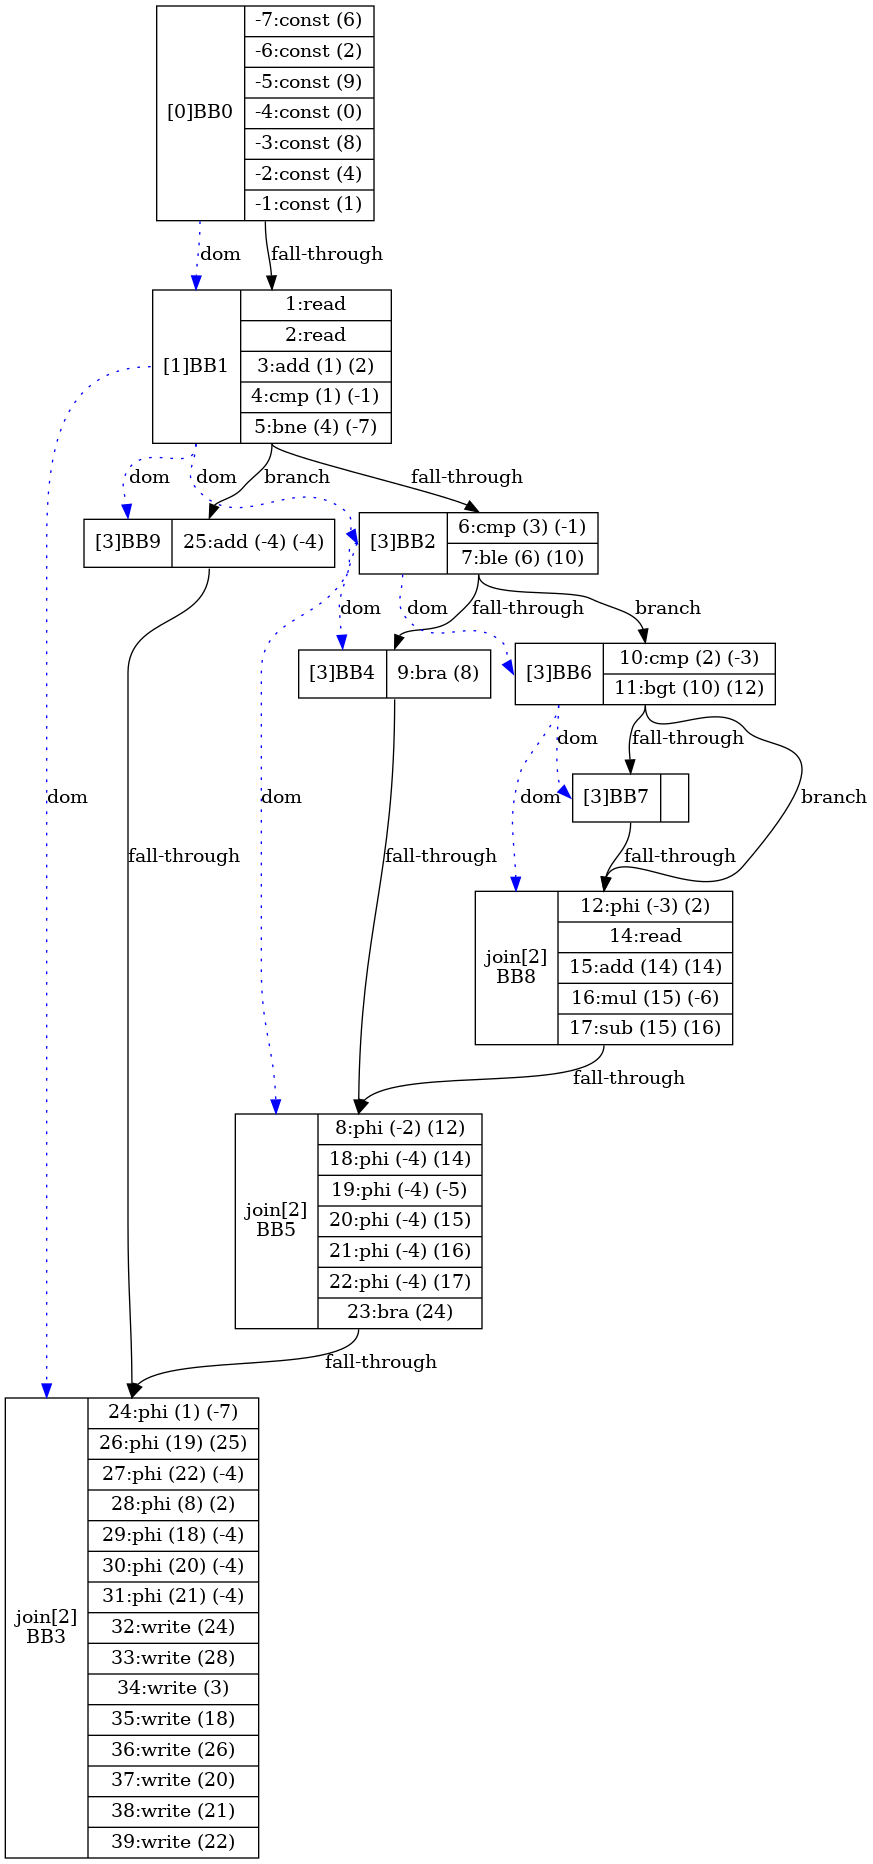
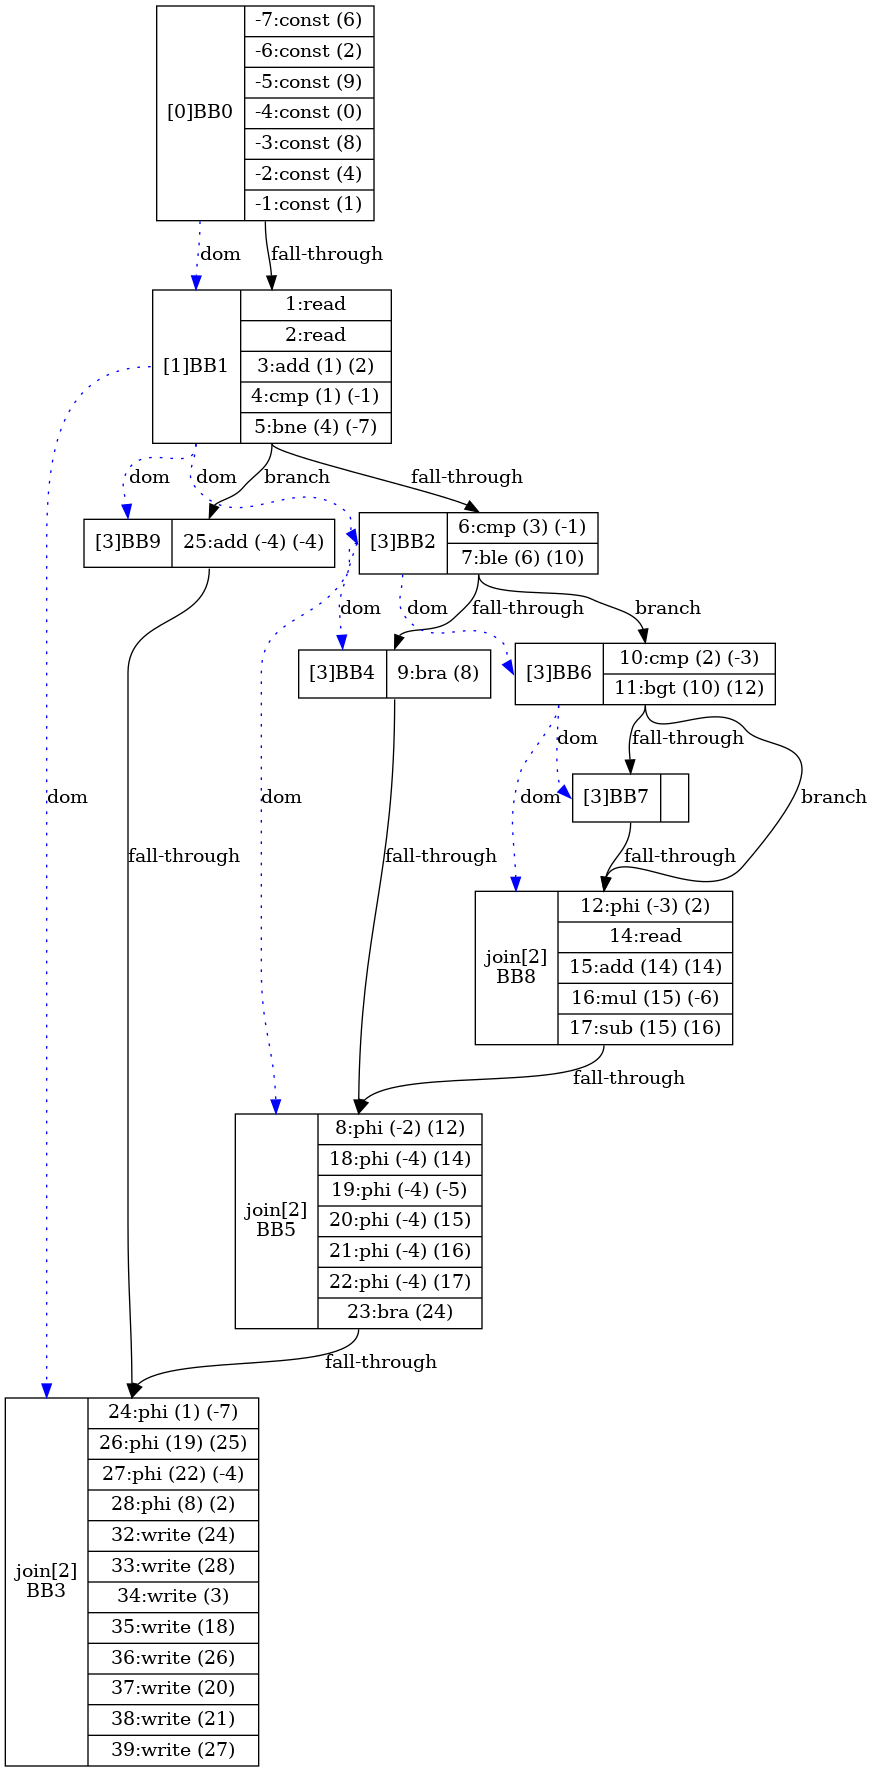
updated [Parser - cleanPhiDupes()]; resolved - remove phi's from [BB's newInstr (dot)]; todo - NESTING; todo - funcCalls; todo - valgrind

diff --git a/src/Parser.hpp b/src/Parser.hpp
@@ -800,18 +800,23 @@ public:
                         if (curr->findSSA(prevVal)) {
                             if (!phiHardUpdate) {
                                 curr->updateInstructions(oldVal, BasicBlock::ssa_table.at(ident_val));
+                                // [12.26.2024]: this hsould be the end of [propagateDown()] for this branch right?
+                                // - since prevVal was created in [this->currBB], we can assume future BB's that're DOM by this->currBB will either use that val or update it
+                                #ifdef DEBUG
+                                    std::cout << "prevVal was created in [curr]; looks like: " << std::endl << curr->toString() << std::endl;
+                                #endif
+                                return; // stub
                             } else {
                                 curr->updateInstructions(prevVal, BasicBlock::ssa_table.at(ident_val), phiHardUpdate);
                                 curr->varVals.insert_or_assign(ident, ident_val);
                                 oldVal = prevVal;
-                                // curr->removeSSA(prevVal); // [1.5.2025]: SLDKFJSL:DKFJSD WHY???
+                                curr->removeSSA(prevVal); // [1.5.2025]: SLDKFJSL:DKFJSD WHY???
+                                #ifdef DEBUG
+                                    std::cout << "prevVal was created in [curr]; looks like: [" << prevVal->toString() << "]" << std::endl << curr->toString() << std::endl;
+                                #endif
+                                // - TODO: RESUME HERE
                             }
-                            // [12.26.2024]: this hsould be the end of [propagateDown()] for this branch right?
-                            // - since prevVal was created in [this->currBB], we can assume future BB's that're DOM by this->currBB will either use that val or update it
-                            #ifdef DEBUG
-                                std::cout << "prevVal was created in [curr]; looks like: " << std::endl << curr->toString() << std::endl;
-                            #endif
-                            return; // stub
+                            
                         }
                     }
                 }
@@ -847,10 +852,10 @@ public:
         }
 
         if ((curr->child) && (std::find(seen.begin(), seen.end(), curr->child) == seen.end())) {
-            propagateDown(curr->child, ident, oldVal, ident_val, false, seen, updateIf);
+            propagateDown(curr->child, ident, oldVal, ident_val, false, seen, updateIf, phiHardUpdate);
         } 
         if ((curr->child2) && (std::find(seen.begin(), seen.end(), curr->child2) == seen.end())) {
-            propagateDown(curr->child2, ident, oldVal, ident_val, false, seen, updateIf);
+            propagateDown(curr->child2, ident, oldVal, ident_val, false, seen, updateIf, phiHardUpdate);
         }
         // stub
         // #ifdef DEBUG
@@ -1317,7 +1322,7 @@ public:
             if (tmp->instr->get_debugNum() > curr->instr->get_debugNum()) {
                 toRemove = tmp->instr;
                 replacement = curr->instr;
-            } else { toRemove = curr->instr; replacement = tmp->instr; }
+            } else { toRemove = curr->instr; replacement = tmp->instr; curr = tmp; }
 
             // [1.5.2024]: find all ident:identVal mappings where identVal == [toRemove]
             // && update with [replacement]
@@ -1337,6 +1342,9 @@ public:
                 this->propagateDown(start, ident, toRemove, replaceInt, true, {}, false, true);
             }
 
+            #ifdef DEBUG
+                std::cout << "updated instr: [" << replacement->toString() << "]" << std::endl;
+            #endif
             seen.emplace(BasicBlock::ssa_table_reversed.at(curr->instr));
             curr = curr->prev;
         }
